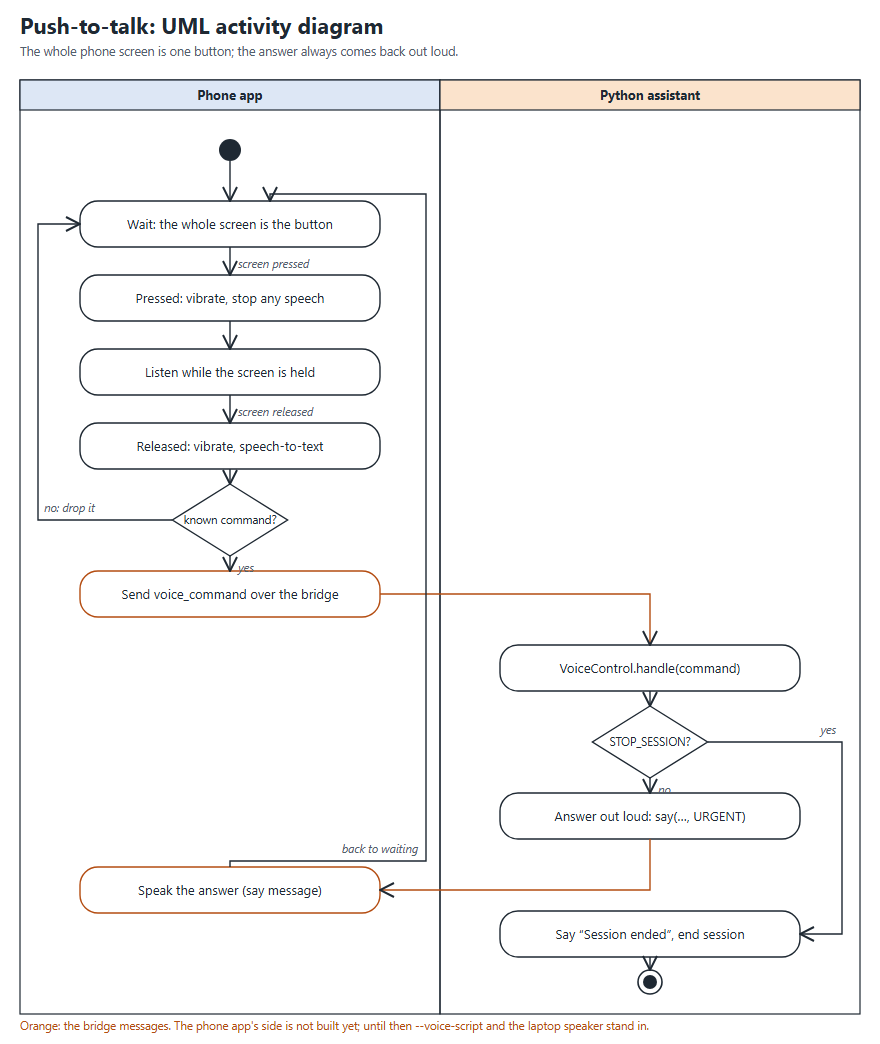
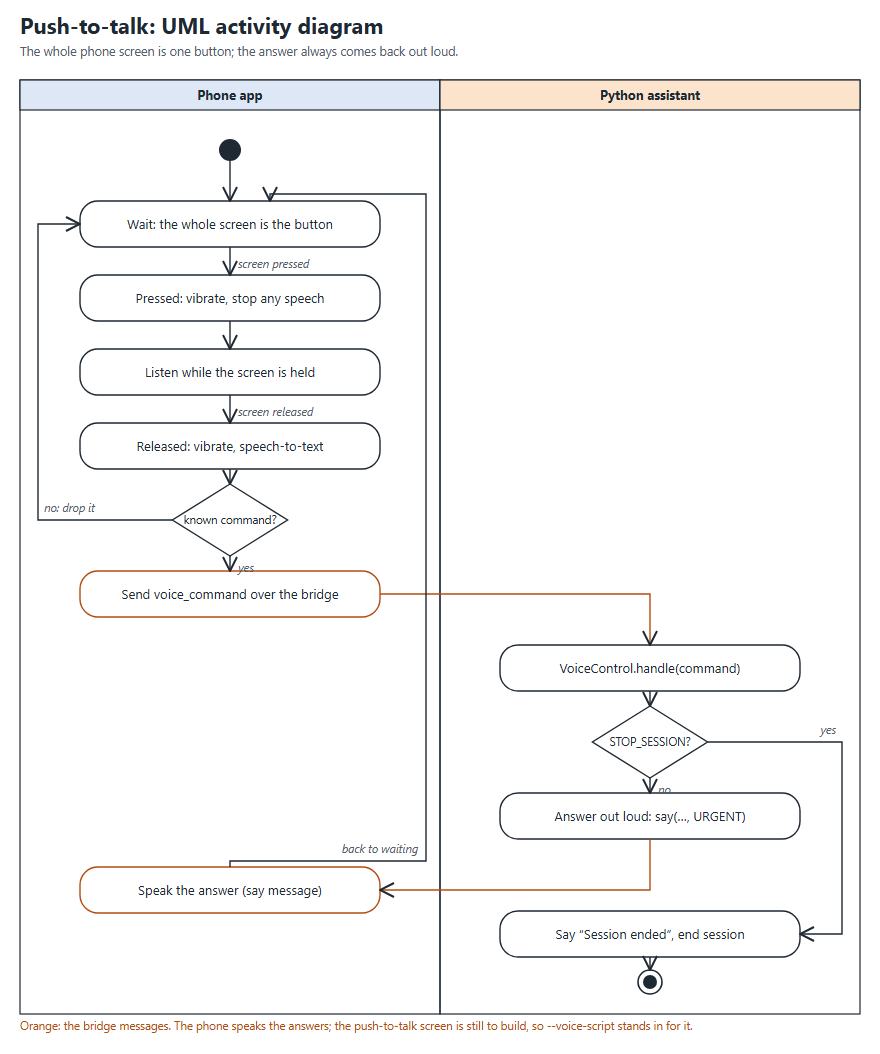
Docs: warning tones, the tone message, and android-app as the audio's home
- DRONE_BRIDGE.md: document the tone message; audio is wired in
  DroneManagerViewModel, not MainActivity
- AUDIO_UX.md: tone row and section; point to android-app/, only
  push-to-talk is still missing
- android-app/README.md: SpeechPolicy and TonePlayer
- bridge_messages.py: drop 'the Android app's side is not built yet'
- Diagrams: tone methods in the class diagram; activity footnote updated

diff --git a/docs/uml/make_audio_diagrams.py b/docs/uml/make_audio_diagrams.py
@@ -95,13 +95,16 @@ CLASSES = {
         "- tracks: dict[int, PersonTrack]",
     ], [
         "+ update(people, w, h): list[ActivityEvent]",
+        "+ approaching(): list[ActivityEvent]",
         "+ activity_of(track_id): str",
     ]),
     "actions": (None, "ComputeActions", HEADER_AUDIO, [
         "- cooldown_s = 5.0",
         "- message_cooldown_s = 2.0",
+        "- tone_interval_s = 2.0",
     ], [
         "+ compute(events): list[Alert]",
+        "+ reminders(approaching): list[pan]",
     ]),
     "locator": (None, "ObjectLocator", HEADER_AUDIO, [
         "- cooldown_s = 10.0",
@@ -118,6 +121,7 @@ CLASSES = {
         "- last_spoken: str",
     ], [
         "+ say(text, priority, pan, repeatable)",
+        "+ tone(pan): bool",
         "+ repeat_last(): bool",
         "+ change_volume(step): float",
         "+ close()",
@@ -164,6 +168,7 @@ CLASSES = {
         "+ pan: float",
         "+ volume: float",
         "+ repeatable: bool",
+        "+ tone: bool",
     ], []),
     "command": ("dataclass", "VoiceCommand", HEADER_DATA, [
         "+ type: CommandType",
@@ -176,6 +181,7 @@ CLASSES = {
     ], []),
     "bridge": ("module", "bridge_messages", HEADER_VOICE, [], [
         "+ say_message(text, priority, pan, volume): dict",
+        "+ tone_message(pan, volume): dict",
         "+ parse_voice_command(message): VoiceCommand",
         "Sent / received through DJIController",
     ]),
@@ -499,7 +505,7 @@ def activity_diagram():
                        (loop_x, ys["wait"] - 30), (pc + 40, ys["wait"] - 30), (pc + 40, ys["wait"] - bh / 2)]))
     parts.append(text(loop_x - 8, ys["speak"] - bh / 2 - 14, "back to waiting", anchor="end", size=11.5, style="italic", fill=MUTED))
 
-    parts.append(text(20, height - 4, "Orange: the bridge messages. The phone app's side is not built yet; until then --voice-script and the laptop speaker stand in.", size=11.5, fill=PLANNED))
+    parts.append(text(20, height - 4, "Orange: the bridge messages. The phone speaks the answers; the push-to-talk screen is still to build, so --voice-script stands in for it.", size=11.5, fill=PLANNED))
     svg = svg_document(width, height + 10, parts)
     save(UML_DIR, "audio_activity_push_to_talk.svg", svg, width, height + 10)
 

diff --git a/docs/AUDIO_UX.md b/docs/AUDIO_UX.md
@@ -24,6 +24,7 @@ left of the frame is their left). In the user's path, objects are **ahead**,
 | Session starts | "Visual Buddy ready" | NORMAL | once | center |
 | A person comes into view | "Person {side}" | NORMAL | 5 s per person; same words 2 s | their side |
 | A person comes toward the user | "Person approaching, {side}" | **URGENT** | 5 s per person; same words 2 s | their side |
+| …and keeps coming closer | a short beep (no words) | NORMAL | every 2 s, closest person only; skipped while words are waiting | their side, as they move |
 | A person leaves the view | "Person out of view" | NORMAL | 5 s per person; same words 2 s | their last side |
 | An object is in the user's path | "{object} ahead" / "… ahead on your left / right" | NORMAL | 10 s per kind of object | its side |
 | Emergency stop (space bar) | "Emergency stop" | **URGENT** | once | center |
@@ -70,16 +71,30 @@ only in the path, and the answer comes from that object's side.
   (`logs/session_*.jsonl`: `person_alert`, `object_alert`, `voice_command`,
   `voice_answer`).
 
+## Warning tones
+
+Words about the same person aren't repeated within 5 s, and the tracker only
+reports when someone *starts* approaching. So if they keep coming closer, the
+user would hear nothing more. Instead, every 2 s while they're still
+approaching, a short beep plays from their side: high (880 Hz) and short
+(150 ms), so it can't be mistaken for speech and doesn't talk over it. Only
+the closest approaching person gets one, and it's skipped when words are
+already waiting. Logged as `warning_tone`. On the laptop (`--drone mock`)
+it's a mono beep (Windows) or the terminal bell; on the phone it's
+`android-app/.../audio/TonePlayer.kt`, in stereo.
+
 ## Not built yet
 
 The Python side is connected: on `--drone dji` alerts go to the phone as
-`say` messages and commands come from it as `voice_command` messages (see
-`DRONE_BRIDGE.md`). On the phone, speaking is written
-(`android-bridge/.../audio/SpeechPlayer.kt`: text-to-speech, URGENT cuts in,
-stereo from `pan`) but not yet run on a device. Still missing:
+`say` and `tone` messages and commands come from it as `voice_command`
+messages (see `DRONE_BRIDGE.md`). On the phone
+(`android-app/.../audio/`), speaking and tones are written (text-to-speech,
+URGENT cuts in, stereo from `pan`) but not yet run on a device. Still
+missing:
 
-- The push-to-talk screen and speech recognition that send `voice_command`.
-- Tones for repeated warnings.
+- The push-to-talk screen and speech recognition that send `voice_command`
+  (`BridgeServer.sendVoiceCommand()` and `SpeechPlayer.stopSpeaking()` are
+  ready for it).
 
 Until then, test with `--drone mock`: the laptop speaks, in mono, and
 `--voice-script` stands in for the user's commands.

diff --git a/DRONE_BRIDGE.md b/DRONE_BRIDGE.md
@@ -167,8 +167,22 @@ Something to speak to the user with the phone's text-to-speech. `priority`
 is `NORMAL` or `URGENT`; an `URGENT` one cuts off a `NORMAL` one already
 playing. `pan` is -1.0 (left ear) .. +1.0 (right ear); `volume` is 0.0 ..
 1.0. No ack: a missed sentence is replaced by the next alert. Python side:
-`BridgeSpeech`, sent with `DJIController.send_message`. Both audio messages
+`BridgeSpeech`, sent with `DJIController.send_message`. All the audio messages
 are built and parsed in `app/bridge_messages.py`.
+
+### `tone` (Python -> Android)
+
+```json
+{"type": "tone", "pan": -0.6, "volume": 0.8}
+```
+
+A short warning beep: a person already announced as approaching ("Person
+approaching, on your left") is still coming closer. Sent at most every 2 s,
+for the closest such person, instead of repeating the words; skipped when
+words are waiting to be said, on either side. `pan` and `volume` as in
+`say`. No ack. Python side: `ComputeActions.reminders()` decides,
+`AudioOutput.tone()` queues it, `BridgeSpeech` sends it. The older
+`android-bridge/` app doesn't know this message and ignores it.
 
 ### Video (Android -> Python)
 
@@ -239,11 +253,12 @@ Split between the transport (`BridgeServer`) and the app's DJI layer
   of the hovers above are sent. `app/main.py` stops sending commands after
   asking to land, and hover inputs during DJI's auto-landing or takeoff
   could cancel it.
-- **Audio**: `BridgeServer` hands each valid `say` to its `onSay` callback;
-  `MainActivity` passes them to `SpeechPlayer`, which speaks them with
-  Android text-to-speech, cutting off a `NORMAL` sentence for an `URGENT`
-  one and dropping stale `NORMAL` ones (`SpeechPolicy`). Written but not yet
-  run on a device. Still to build: the push-to-talk screen, which must call
+- **Audio**: `BridgeServer` hands each valid `say` to its `onSay` callback
+  and each `tone` to `onTone`; `DroneManagerViewModel` passes them to
+  `SpeechPlayer`, which speaks them with Android text-to-speech, cutting off
+  a `NORMAL` sentence for an `URGENT` one and dropping stale `NORMAL` ones
+  (`SpeechPolicy`), and plays tones through `TonePlayer` when nothing is
+  being said. Written but not yet run on a device. Still to build: the push-to-talk screen, which must call
   `SpeechPlayer.stopSpeaking()` when pressed and
   `BridgeServer.sendVoiceCommand()` when released. Audio messages never
   affect flight; a failing speech callback is only logged.
